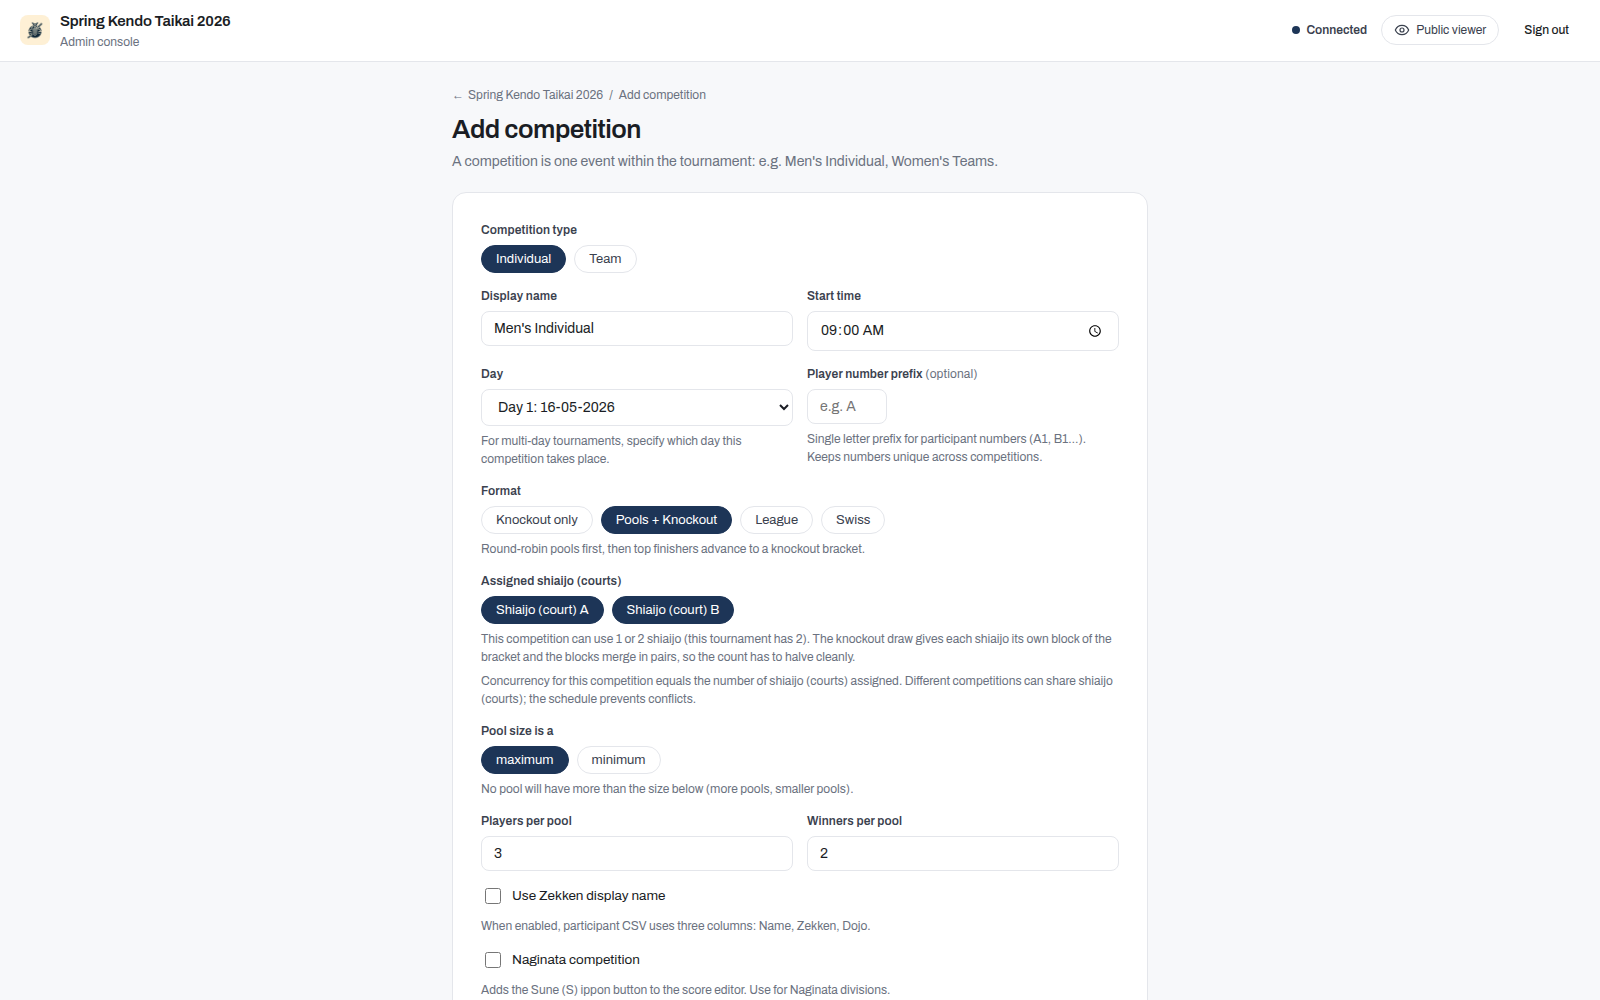
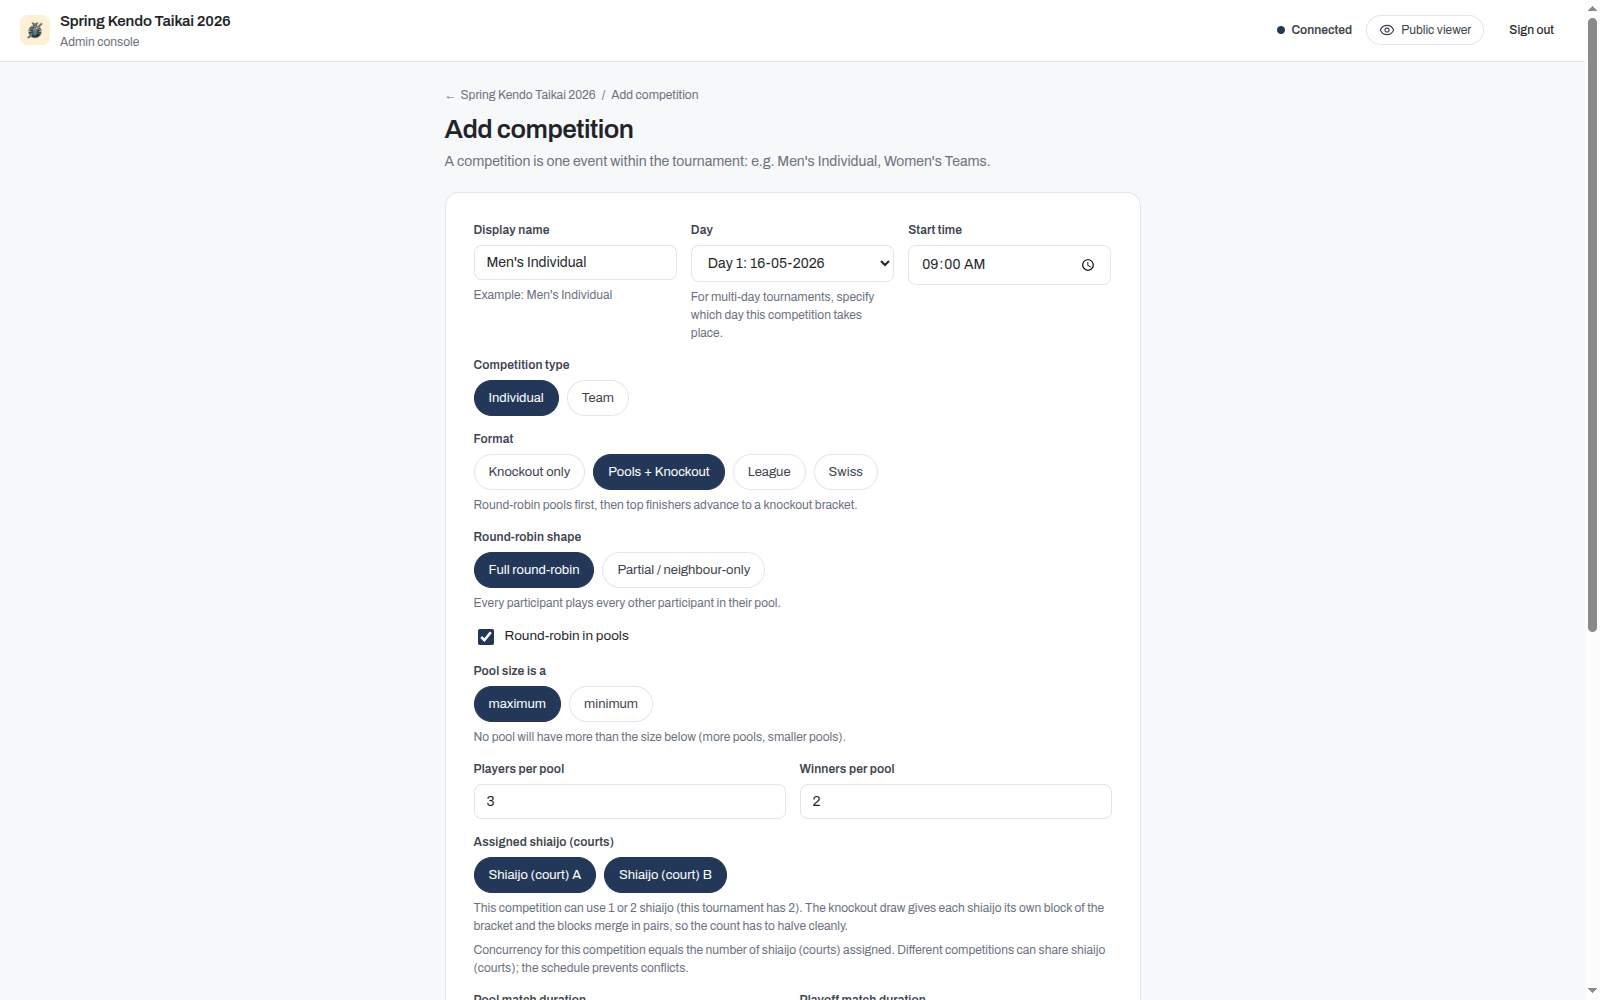
docs(bc-symm): the create-competition capture showed the old field order
The screenshot in first-tournament.md predates the reorder in this PR. It
shows Competition type first, Display name second, and Assigned shiaijo
above the pool fields. All three moved. Recaptured on the same scene
(Spring Kendo Taikai 2026, Men's Individual, Pools + Knockout, two shiaijo,
pool size 3, winners 2) at the same 1600x1000 the original used, so it drops
in beside the other captures unchanged. Its alt text listed "type, format,
court, and pool-size", an order that no longer matches what the image shows.

The settings section this PR added also described the old behaviour: it said
changing the format "rewrites" the settings for the format you left. Since
the surfacing fix that is no longer what an operator sees. Nothing is
cleared while they are still deciding, a note lists what the save will drop
with each current value, switching back keeps them, and the clear happens on
save. The paragraph now says that.

Recapturing exposed a layout regression the reorder caused, in both screens.
`.row` is a two-column grid. Before the reorder the identity fields sat as
two clean pairs only because Player number prefix filled the fourth cell;
moving it down to the options group left three fields in a two-column grid,
wrapping 2 + 1 and orphaning Start time beside an empty cell. `.row-3`
already existed and already collapses to one column on mobile alongside
`.row`, so the fix is a class swap with no new CSS. Applied to both screens,
[…]

diff --git a/web-mobile/js/admin_setup.jsx b/web-mobile/js/admin_setup.jsx
@@ -1080,7 +1080,15 @@ function AdminCreateCompetition({ tournament, onCancel, onCreate, onLogout, onVi
         {error && <div className="alert alert--error" style={{ marginBottom: 16 }}>{error}</div>}
 
         <div className="card card--pad-lg">
-          <div className="row">
+          {/* row-3, not row: the identity group is three fields (name, day,
+              start time). `.row` is a two-column grid, so before the bc-symm
+              reorder these sat as two clean pairs only because Player number
+              prefix was up here filling the fourth cell. Moving it down to the
+              options group left three fields in a two-column grid, which wraps
+              2 + 1 and orphans Start time beside an empty cell. `.row-3`
+              already exists and already collapses to one column on mobile
+              alongside `.row`, so this needs no new CSS. */}
+          <div className="row-3">
             <div className="field">
               <label className="field__label">Display name</label>
               {/* Placeholder shows the REAL default (deriveCompetitionName("", kind)), not

diff --git a/web-mobile/js/admin_competition_settings.jsx b/web-mobile/js/admin_competition_settings.jsx
@@ -901,7 +901,11 @@ function AdminSettings({ c, tournament, onUpdate, onBack, password, showToast, o
           <button type="button" className="btn btn--sm" onClick={() => { setClashWarnings(null); if (onBack) onBack(); }}>Dismiss & return to dashboard</button>
         </div>
       )}
-      <div className="row">
+      {/* row-3 for the same reason as the create form's identity group: three
+          fields in `.row`'s two-column grid wrap 2 + 1 and orphan Start time
+          beside an empty cell. Kept identical to admin_setup.jsx so the two
+          screens lay the group out the same way, not just order it the same. */}
+      <div className="row-3">
         <div className="field"><label className="field__label">Display name</label><input className="input" value={local.name} onChange={(e) => update("name", e.target.value)} /></div>
         <div className="field">
           <label className="field__label">Day</label>

diff --git a/docs/user-guide/organisers/run-tournament.md b/docs/user-guide/organisers/run-tournament.md
@@ -109,9 +109,15 @@ Three rules govern when a setting stops being editable:
   earlier than everything else. Individual and team rosters are not
   interchangeable, so clear the participant list first if you need to switch.
 
-Changing the format rewrites the settings that only apply to the format you left
-behind. Switching a pools competition to a league, for example, clears the pool
+Changing the format clears the settings that only apply to the format you left
+behind. Switching a pools competition to a league, for example, drops the pool
 size and the number of qualifiers, because a league has no pool phase to size.
+
+Nothing is cleared while you are still deciding. When you pick a different
+format, a note appears under the control listing each setting the save will
+clear, with its current value, so you can see the cost before you commit.
+Switching back to the original format keeps them. The settings are only dropped
+when you save.
 
 ### Assigning shiai-jo
 

diff --git a/docs/user-guide/start-here/first-tournament.md b/docs/user-guide/start-here/first-tournament.md
@@ -18,7 +18,7 @@ From the dashboard, click **+ Add competition**. Choose Individual or Team, then
 
 The number of shiai-jo you entered above is your venue's total, and can be anything from 1 to 16. Each competition is then assigned some of them, and a competition that ends in a knockout has to be assigned 1, 2, 4, 8 or 16, because its bracket is split into one block per shiai-jo and those blocks merge in pairs. So a hall with three shiai-jo runs each competition on 1 or 2, and can run two competitions at once to use all three. See [Assigning shiai-jo](../organisers/run-tournament.md#assigning-shiai-jo).
 
-![Creating a competition: the type, format, court, and pool-size options on the setup form.](../../screenshots/mobile-create-competition.png)
+![Creating a competition: the name, type, format, pool-size, and shiai-jo options on the setup form.](../../screenshots/mobile-create-competition.png)
 
 ## 3. Add competitors
 
